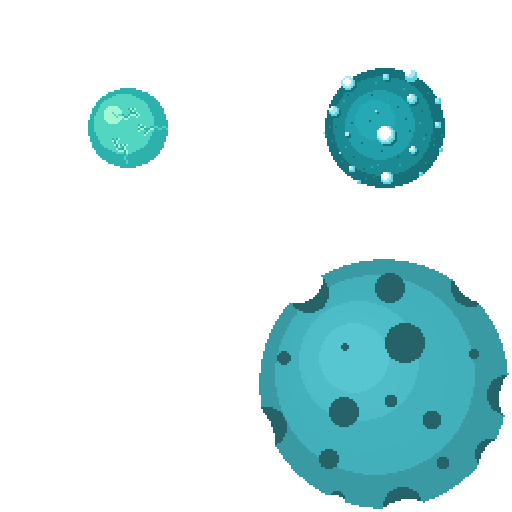
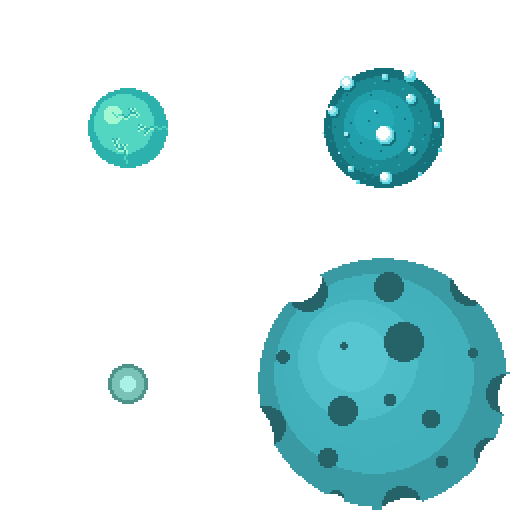
sprite flipping, better jump and jetpack oxygen use

diff --git a/apps/myApps/Ksc_PAlpha_Rebuild_0_0_1/src/Player.cpp b/apps/myApps/Ksc_PAlpha_Rebuild_0_0_1/src/Player.cpp
@@ -47,24 +47,25 @@ void Player::setup() {
     damp                    = 1.00;
     m                       = 1.0;
     jumpStrength            = 0.0;
-    jump_strength_1         = 50000.0;
-    jump_strength_2         = 100000.0;
+    jump_strength_1         = 250000.0;
+    jump_strength_2         = 500000.0;
     jump_strength_3         = 1000000.0;
     restitution             = 0.10;         /// Used to calculate the amount of momentum conserved when bouncing off a planet
     off_screen_limit        = 0;           /// If this is too large & camera moves by whole screens, camera will freak out
-    rotation_speed          = 6.0;          /// This is the speed of your rotation in space
-    speed_on_planet         = 150.0;
+    rotation_speed          = 10.0;          /// This is the speed of your rotation in space
+    speed_on_planet         = 250.0;
     jetpack_power           = 500000.0;
     jump_multiplier         = 30.0;
-    jetpack_o2_use          = 5.0;
+    jetpack_o2_use          = 20.0;
     astronaut_pickup_range  = 20;
     astronaut_drop_range    = 120;
     jetpack_count           = 3;
     max_jetpack_count       = jetpack_count;
-    planet_orientation_speed= 20.0;
+    planet_orientation_speed= 50.0;
     oxygen_depletion_speed  = 7.0;
     camera_move_delay       = 0.25;
     death_timer             = 0.5;
+    flame_rotation          = 0;
 
     ON_PLANET               = false;
     CAN_LAND_ON_PLANET      = true;
@@ -78,6 +79,7 @@ void Player::setup() {
     LEAVING_PLANET          = false;
     DEATH_ANIMATION         = false;
     JETPACK_EMPTY           = false;
+    FACING_RIGHT            = true;
 
     p1Renderer = new ofxSpriteSheetRenderer(1, 10000, 0, 64);               /// declare a new renderer with 1 layer, 10000 tiles per layer, default layer of 0, tile size of 64
 	p1Renderer->loadTexture("ART/playerSheet2.png", 768, GL_NEAREST);           /// load the spriteSheetExample.png texture of size 256x256 into the sprite sheet. set it's scale mode to nearest since it's pixel art
@@ -122,19 +124,26 @@ void Player::update() {
         player_rotation += 360;
         //player_rotation = 270 - rotation;
     }
+        if(DEATH_ANIMATION){
+        //flame_rotation = (-1*v).angle(ofVec2f(0,-1));
+        cout << ofToString(flame_rotation) + "/n";
+        p1Renderer->addCenterRotatedTile(&flame, pos.x, pos.y,-1, F_NONE, 1.0, flame_rotation, NULL, 255, 255, 255, 255);
+        }
+
+        if(FACING_RIGHT){
+        p1Renderer->addCenterRotatedTile(&anim, pos.x, pos.y,-1, F_HORIZ, 1.0, player_rotation, NULL, 255, 255, 255, 255);
+        } else {
         p1Renderer->addCenterRotatedTile(&anim, pos.x, pos.y,-1, F_NONE, 1.0, player_rotation, NULL, 255, 255, 255, 255);
+        }
 }
 
 void Player::draw() {
-    ofSetColor(255, 0, 0);
-    ofNoFill();
-    ofCircle(pos, (20 * (jumpStrength / jump_strength_3))) ;
     ofSetColor(0, 255, 240);
     ofFill();
     ofPushMatrix();
     glTranslatef(pos.x, pos.y, 0);
     glRotatef(rotation,0, 0, 1);
-    ofCircle(0, 0, r);
+    //ofCircle(0, 0, r);
     //ofLine(ofPoint(0, 0), ofPoint(50, 0));
     ofPopMatrix();
 
@@ -470,6 +479,7 @@ void Player::orientToPlanet(int collision) {
     dir.set(normalized_collision_normal);
     float new_rotation = ofRadToDeg(atan2(normalized_collision_normal.y, normalized_collision_normal.x));
     rotation = ofLerp(rotation, new_rotation, planet_orientation_speed * dt);
+    //rotation = new_rotation;
 }
 
 void Player::traversePlanet(bool move_left) {
@@ -479,9 +489,11 @@ void Player::traversePlanet(bool move_left) {
     if (move_left) {
         theta -= speed_on_planet / planet_r * dt;
         if(anim.index!=0) anim = walking;
+        FACING_RIGHT = false;
     } else {
         theta += speed_on_planet / planet_r * dt;
         if(anim.index!=0) anim = walking;
+        FACING_RIGHT = true;
     }
     pos.x = (cos(theta) * (planet_r + r)) + planet_pos.x;
     pos.y = (sin(theta) * (planet_r + r)) + planet_pos.y;
@@ -518,7 +530,7 @@ void Player::chargeJump() {
 }
 
 void Player::jump() {
-    if (jumpStrength < jump_strength_1) {
+    /*if (jumpStrength < jump_strength_1) {
         jumpStrength = 0;
     } else if (jumpStrength <= jump_strength_2) {
         jumpStrength = jump_strength_1;
@@ -526,7 +538,16 @@ void Player::jump() {
         jumpStrength = jump_strength_2;
     } else if (jumpStrength > jump_strength_3) {
         jumpStrength = jump_strength_3;
+    }*/
+
+    if (anim.frame == 1) {
+        jumpStrength = jump_strength_1;
+    } else if (anim.frame == 2) {
+        jumpStrength = jump_strength_2;
+    } else if (anim.frame == 3) {
+        jumpStrength = jump_strength_3;
     }
+
     if (TRAVERSING_PLANET) {
         starting_pos = pos;
         f += jumpStrength;

diff --git a/apps/myApps/Ksc_PAlpha_Rebuild_0_0_1/src/Player.h b/apps/myApps/Ksc_PAlpha_Rebuild_0_0_1/src/Player.h
@@ -106,7 +106,20 @@ static animation_t drift =
 static animation_t death =
 {	36,	/* .index			(int) - this is the index of the first animation frame. indicies start at 0 and go left to right, top to bottom by tileWidth on the spriteSheet		*/
 	0,	/* .frame			(int) - this is the current frame. It's an internal variable and should always be set to 0 at init													*/
-	11,	/* .totalframes		(int) - the animation length in frames																												*/
+	13,	/* .totalframes		(int) - the animation length in frames																												*/
+	1,	/* .width			(int) - the width of each animation frame in tiles																									*/
+	1,	/* .height			(int) - the height of each animation frame in tiles																									*/
+	75,	/* .frameduration	(unsigned int) - how many milliseconds each frame should be on screen. Less = faster																*/
+	0,	/* .nexttick		(unsigned int) - the next time the frame should change. based on frame duration. This is an internal variable and should always be set to 0 at init	*/
+	-1,	/* .loops			(int) - the number of loops to run. -1 equals infinite. This can be adjusted at runtime to pause animations, etc.									*/
+	-1,	/* .finalindex		(int) - the index of the final tile to draw when the animation finishes. -1 is the default so total_frames-1 will be the last frame.				*/
+	1	/* .frameskip		(int) - the incrementation of each frame. 1 should be set by default. If you wanted the animation to play backwards you could set this to -1, etc.	*/
+};
+
+static animation_t flame =
+{	48,	/* .index			(int) - this is the index of the first animation frame. indicies start at 0 and go left to right, top to bottom by tileWidth on the spriteSheet		*/
+	0,	/* .frame			(int) - this is the current frame. It's an internal variable and should always be set to 0 at init													*/
+	13,	/* .totalframes		(int) - the animation length in frames																												*/
 	1,	/* .width			(int) - the width of each animation frame in tiles																									*/
 	1,	/* .height			(int) - the height of each animation frame in tiles																									*/
 	75,	/* .frameduration	(unsigned int) - how many milliseconds each frame should be on screen. Less = faster																*/
@@ -175,6 +188,7 @@ public:
     float planet_orientation_speed;
     float oxygen_depletion_speed;
     float camera_move_delay;
+    int flame_rotation;
 
     bool CAN_JETPACK;
     bool CAN_LAND_ON_PLANET;
@@ -186,6 +200,7 @@ public:
     bool LEAVING_PLANET;
     bool DEATH_ANIMATION;
     bool JETPACK_EMPTY;
+    bool FACING_RIGHT;
 
     ofSoundPlayer fxDeath;
     ofSoundPlayer fxJetpackEmpty;

diff --git a/apps/myApps/Ksc_PAlpha_Rebuild_0_0_1/src/testApp.cpp b/apps/myApps/Ksc_PAlpha_Rebuild_0_0_1/src/testApp.cpp
@@ -98,6 +98,18 @@ void testApp::update() {
     }   else {
         CAMERA_SCALING = true;
     }
+
+    // key handling: specifically adding justpressed keys to waspressed.
+
+
+   /* for (int i = 0; i < justPressed.size(); i++){
+        wasPressed[i] = justPressed[i];
+    }
+    justPressed.clear();
+
+    for (int i = 0; i < wasPressed.size();i++){
+    cout << wasPressed[]
+    }*/
 }
 
 void testApp::moveCamera(string direction) {
@@ -300,6 +312,8 @@ void testApp::addStrandedAstronaut(ofVec2f _pos) {
 //--------------------------------------------------------------
 void testApp::keyPressed(int key) {
 
+    //justPressed.push_back(key);
+
     switch (key) {
     case 'i':
         if (iddqd == 0) {
@@ -435,6 +449,9 @@ void testApp::keyPressed(int key) {
         }
         break;
     case OF_KEY_LEFT:
+       // justPressed.push_back(OF_KEY_LEFT);
+
+
         if (player.TRAVERSING_PLANET) {
             player.traversePlanet(true);
             break;
@@ -442,6 +459,7 @@ void testApp::keyPressed(int key) {
             player.rotateDirection(true);
             break;
         }
+
     case OF_KEY_RIGHT:
         if (player.TRAVERSING_PLANET) {
             player.traversePlanet(false);
@@ -484,6 +502,13 @@ void testApp::keyPressed(int key) {
 
 //--------------------------------------------------------------
 void testApp::keyReleased(int key) {
+
+    /*for (int i = 0; i < justPressed.size(); i++){
+        if (justPressed[i] == key){
+            justPressed[i]erase();
+        }
+    }*/
+
     switch (key) {
     case 'a':
         break;

diff --git a/apps/myApps/Ksc_PAlpha_Rebuild_0_0_1/src/Comet.cpp b/apps/myApps/Ksc_PAlpha_Rebuild_0_0_1/src/Comet.cpp
@@ -54,14 +54,14 @@ void Comet::draw() {
     ///draw path with points
     ofPolyline line;
     for (int p = 1; p < pathPoints.size(); p++) {
-        ofSetColor(255, 255, 255);
-        ofNoFill();
-        ofCircle(pathPoints[p], 3);
+        //ofSetColor(255, 255, 255);
+        //ofNoFill();
+        //ofCircle(pathPoints[p], 3);
         line.addVertex(pathPoints[p]);
-        ofDrawBitmapString(ofToString(p), pathPoints[p].x + 5, pathPoints[p].y + 5);
+        //ofDrawBitmapString(ofToString(p), pathPoints[p].x + 5, pathPoints[p].y + 5);
     }
     line.close();
-    line.draw();
+   // line.draw();
 
     ///draw comet
     ofFill();

diff --git a/apps/myApps/Ksc_PAlpha_Rebuild_0_0_1/src/main.cpp b/apps/myApps/Ksc_PAlpha_Rebuild_0_0_1/src/main.cpp
@@ -6,7 +6,7 @@
 int main( ){
 
     ofAppGlutWindow window;
-	ofSetupOpenGL(&window, 1280,720, OF_FULLSCREEN);			// <-------- setup the GL context
+	ofSetupOpenGL(&window, 1280,720, OF_WINDOW);			// <-------- setup the GL context
 
 	// this kicks off the running of my app
 	// can be OF_WINDOW or OF_FULLSCREEN

diff --git a/apps/myApps/Ksc_PAlpha_Rebuild_0_0_1/src/testApp.h b/apps/myApps/Ksc_PAlpha_Rebuild_0_0_1/src/testApp.h
@@ -72,6 +72,9 @@ class testApp : public ofBaseApp {
         ofVec3f camera_target;
         ofVec3f camera_target_save;
 
+        int justPressed[100];
+        int wasPressed[];
+
     private:
         int planet_base_m;
         int planet_mass_multiplier;
